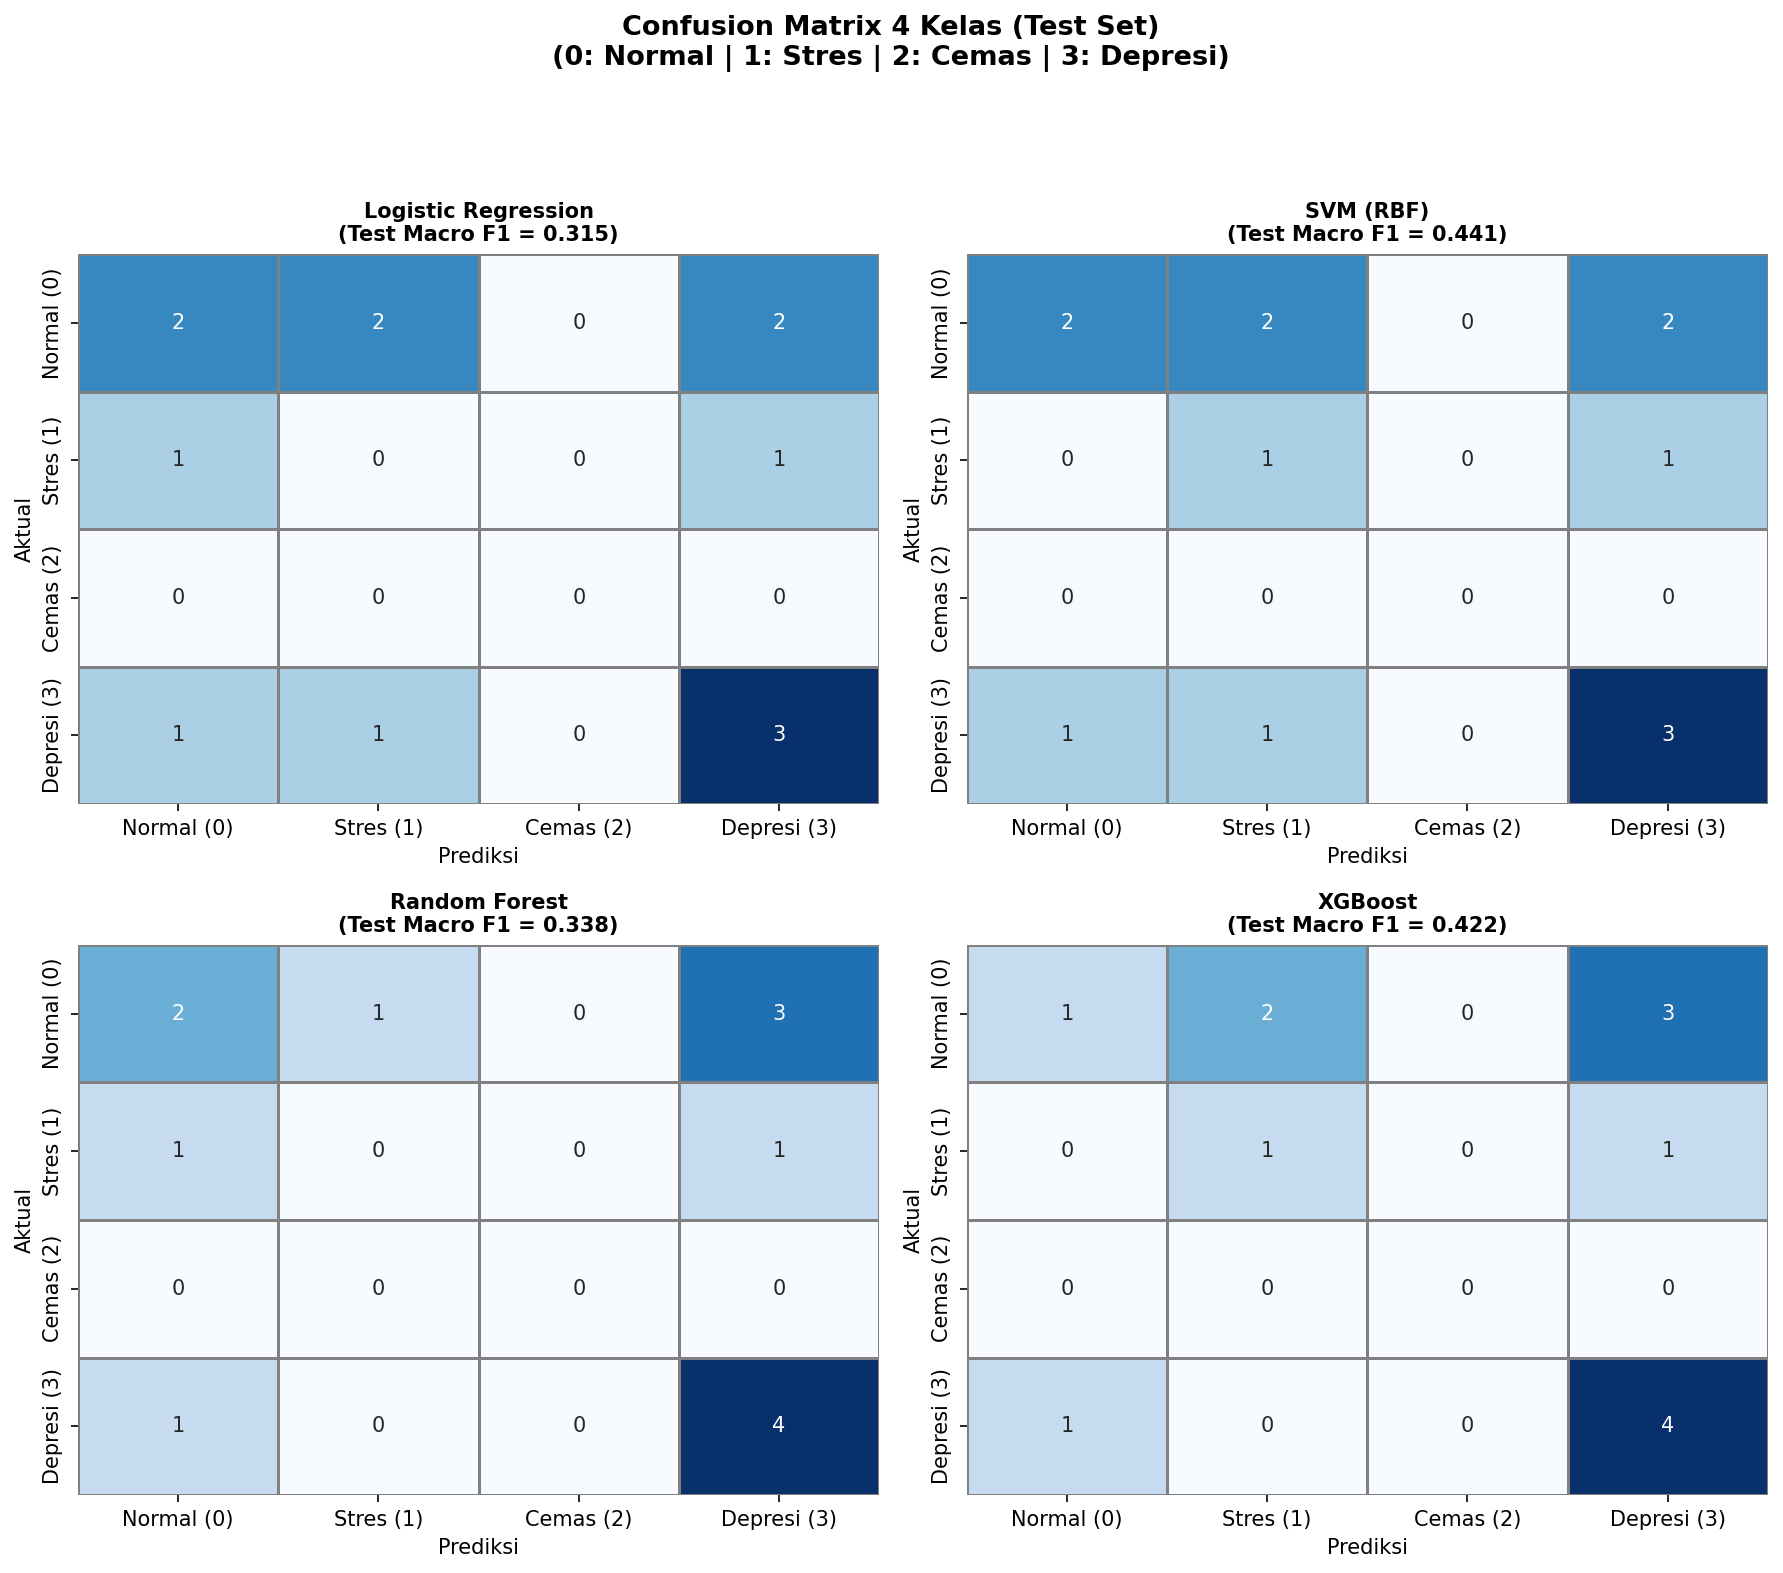
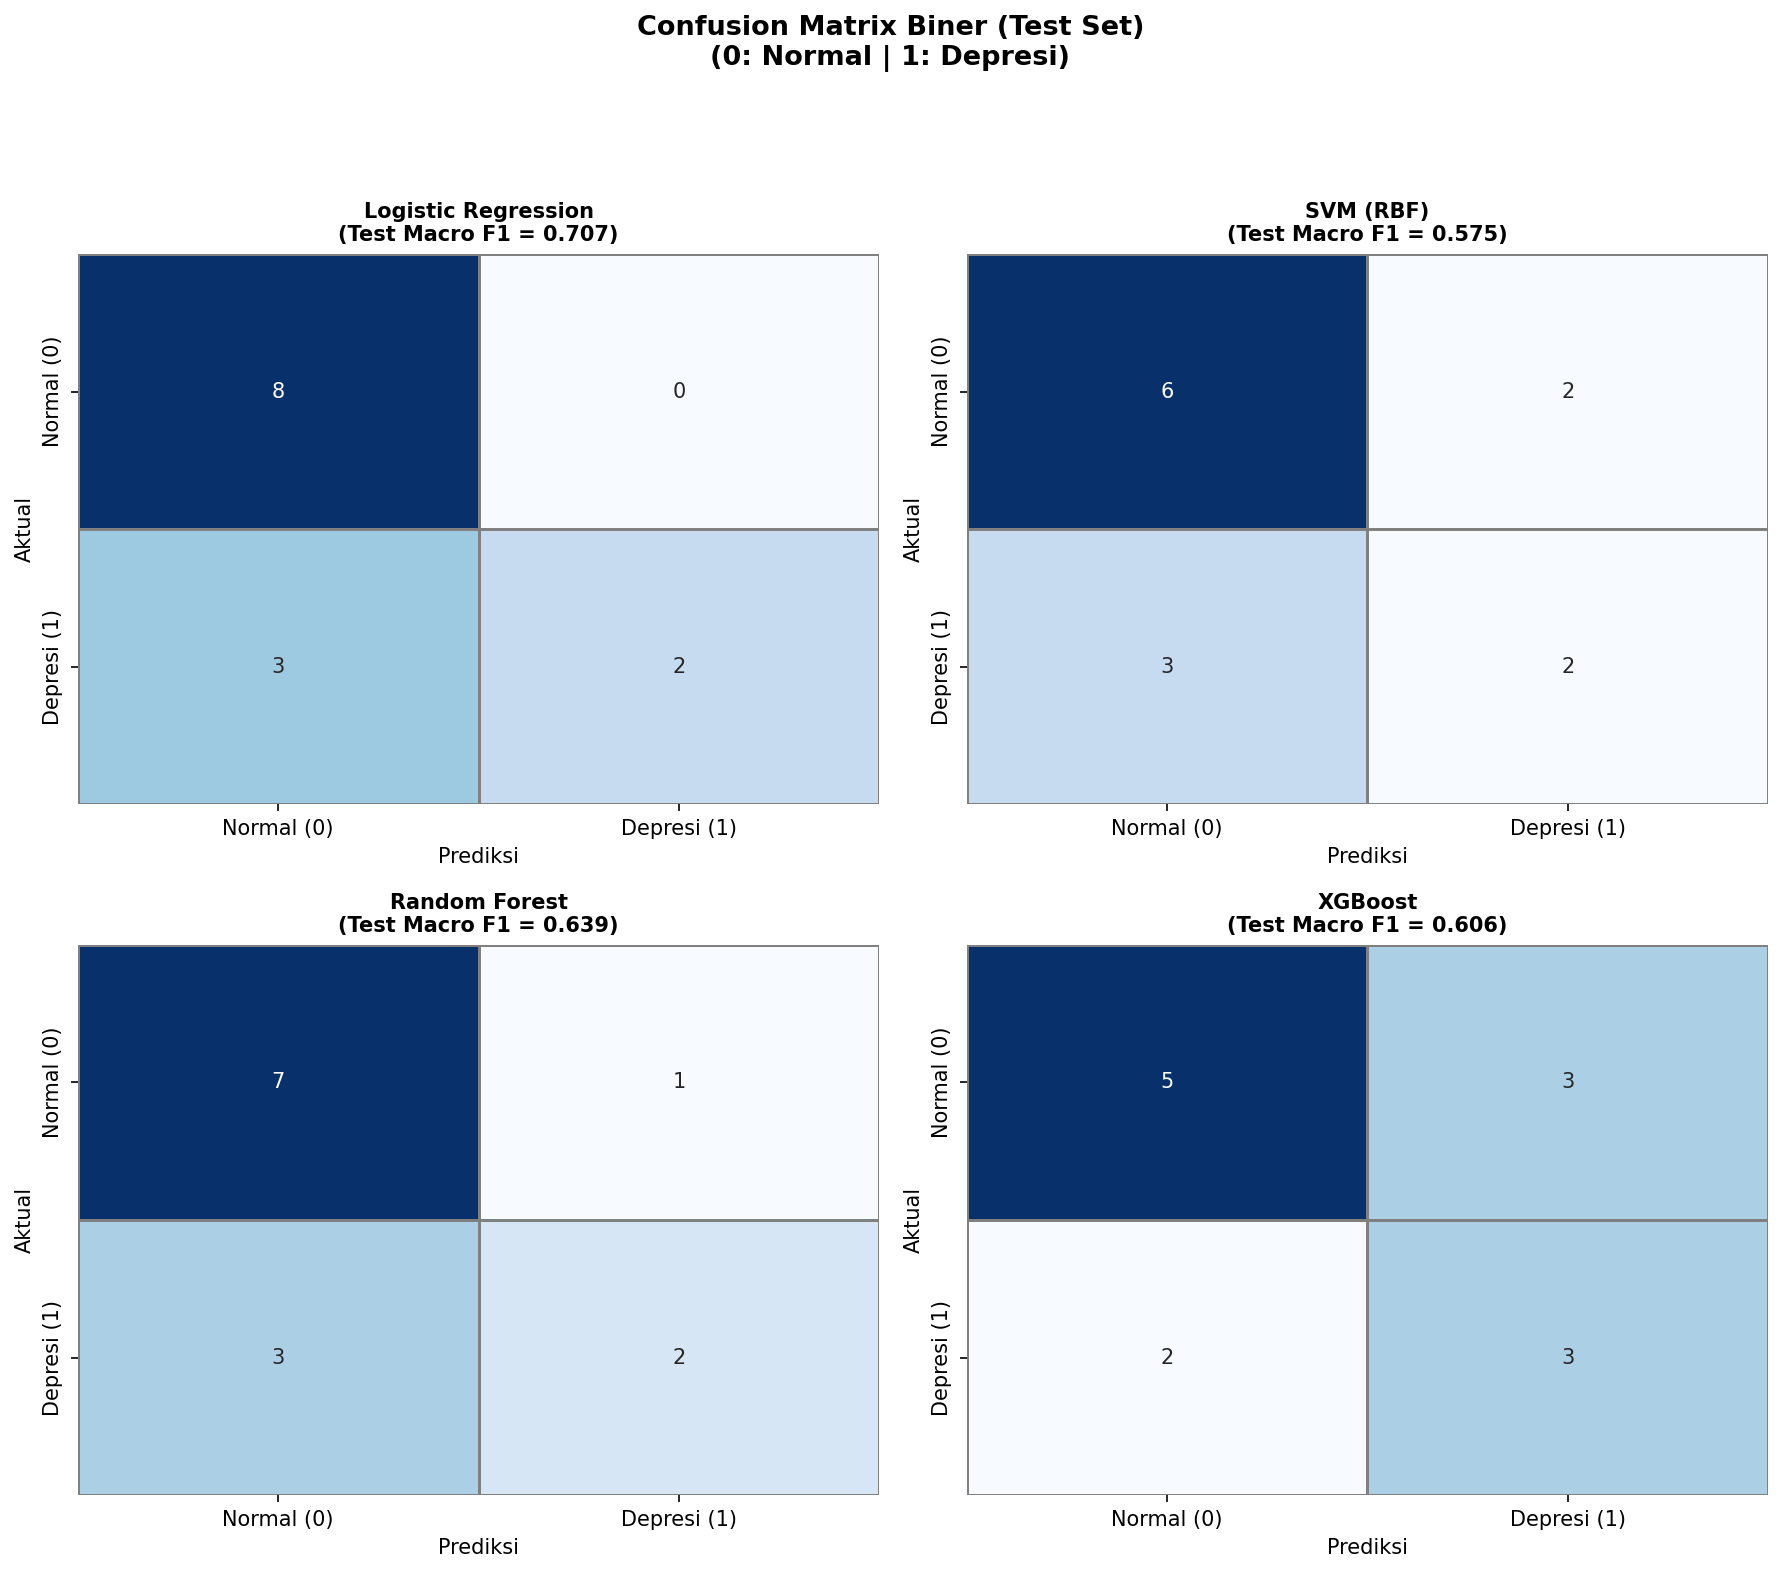
Use binary PHQ-8 labels; retrain models
Switch project labeling from a 4-class PHQ-8 hierarchy to a binary scheme (Normal vs Depresi). Changes include: updated docs (docs/strategiv1.md) to describe binary strategy; preprocessing (preprocessing/extract_mfcc.py) now maps to label_depresi and uses PHQ_Binary/PHQ8_Binary or score threshold; notebooks (.py and .ipynb) updated to use label_depresi, binary class labels, binary XGBoost objective, and set matplotlib backend for headless plotting. Model artifacts (logistic_regression, random_forest, svm, xgboost, scaler pkl files) were replaced after retraining and models/metrics were updated (models/ml/best_model_info.json and results CSV/plots/confusion matrices reflect new best model and performance). Removed leftover test.txt files. Overall effect: project now trains and evaluates a binary depression classifier and stores the retrained model artifacts and updated results.

diff --git a/preprocessing/extract_mfcc.py b/preprocessing/extract_mfcc.py
@@ -151,62 +151,23 @@ def extract_all_audio_features(y, sr):
 
 def map_label_strategi_v1(row):
     """
-    Applies hierarchical rule-based labeling from docs/strategiv1.md and maps to 4 classes:
-    Class 0: NORMAL
-    Class 1: STRES
-    Class 2: CEMAS
-    Class 3: DEPRESI
+    Applies binary labeling (2 classes) based on PHQ-8 score:
+    Class 0: NORMAL / Non-Depressed (PHQ score <= 9)
+    Class 1: DEPRESI (PHQ score >= 10)
     """
-    # Extract scores
+    # Extract binary label if explicitly available in metadata
+    phq_binary = row.get('PHQ8_Binary', row.get('PHQ_Binary', np.nan))
+    if not pd.isna(phq_binary):
+        return int(phq_binary)
+        
+    # Fallback to score-based threshold
     phq_score = row.get('PHQ8_Score', row.get('PHQ_Score', np.nan))
     if pd.isna(phq_score):
         phq_score = 0
     else:
         phq_score = int(phq_score)
         
-    # Check if individual questionnaire item columns are present (Train & Dev splits)
-    # The test split only has PHQ_Score
-    has_items = 'PHQ8_Depressed' in row and not pd.isna(row['PHQ8_Depressed'])
-    
-    if has_items:
-        def get_val(key):
-            val = row.get(key, 0)
-            return 0 if pd.isna(val) else int(val)
-            
-        dep = get_val('PHQ8_Depressed')
-        noi = get_val('PHQ8_NoInterest')
-        fail = get_val('PHQ8_Failure')
-        mov = get_val('PHQ8_Moving')
-        conc = get_val('PHQ8_Concentrating')
-        sleep = get_val('PHQ8_Sleep')
-        tired = get_val('PHQ8_Tired')
-        
-        # 1. Prioritas Pertama: DEPRESI
-        if phq_score >= 10 or (dep >= 2 and noi >= 2 and fail >= 2):
-            return 3  # DEPRESI
-            
-        # 2. Prioritas Kedua: CEMAS
-        if phq_score >= 5 and (mov >= 1 or conc >= 2):
-            return 2  # CEMAS
-            
-        # 3. Prioritas Ketiga: STRES
-        if phq_score >= 5 and (sleep >= 2 or tired >= 2):
-            return 1  # STRES
-            
-        # 4. Prioritas Keempat: NORMAL
-        if phq_score <= 4 and dep <= 1 and noi <= 1:
-            return 0  # NORMAL
-            
-        # 5. Fallback
-        return 1  # STRES
-    else:
-        # Fallback logic for test set using only the score thresholds
-        if phq_score >= 10:
-            return 3
-        elif phq_score <= 4:
-            return 0
-        else:
-            return 1  # Fallback to STRES for score 5-9 when items are missing
+    return 1 if phq_score >= 10 else 0
 
 def build_dataset_and_extract_features(cleaned_dir, output_dir):
     """
@@ -235,9 +196,9 @@ def build_dataset_and_extract_features(cleaned_dir, output_dir):
     
     # Label splits using map_label_strategi_v1
     logger.info("Melabeli data train, dev, dan test sesuai docs/strategiv1.md...")
-    df_train['label_3kelas'] = df_train.apply(map_label_strategi_v1, axis=1)
-    df_dev['label_3kelas'] = df_dev.apply(map_label_strategi_v1, axis=1)
-    df_test['label_3kelas'] = df_test.apply(map_label_strategi_v1, axis=1)
+    df_train['label_depresi'] = df_train.apply(map_label_strategi_v1, axis=1)
+    df_dev['label_depresi'] = df_dev.apply(map_label_strategi_v1, axis=1)
+    df_test['label_depresi'] = df_test.apply(map_label_strategi_v1, axis=1)
     
     # Add split column
     df_train['split'] = 'train'
@@ -251,7 +212,7 @@ def build_dataset_and_extract_features(cleaned_dir, output_dir):
         df_test.rename(columns={'participant_ID': 'Participant_ID'}, inplace=True)
         
     # Combine metadata
-    meta_cols_to_keep = ['Participant_ID', 'PHQ8_Score', 'PHQ_Score', 'label_3kelas', 'split', 'Gender']
+    meta_cols_to_keep = ['Participant_ID', 'PHQ8_Score', 'PHQ_Score', 'label_depresi', 'split', 'Gender']
     all_metadata = []
     
     for df_part in [df_train, df_dev, df_test]:
@@ -301,7 +262,7 @@ def build_dataset_and_extract_features(cleaned_dir, output_dir):
             features = extract_all_audio_features(y, sr)
             features['participant_id'] = participant_id
             features['phq8_score'] = int(meta_row.iloc[0]['PHQ8_Score'])
-            features['label_3kelas'] = int(meta_row.iloc[0]['label_3kelas'])
+            features['label_depresi'] = int(meta_row.iloc[0]['label_depresi'])
             features['split'] = meta_row.iloc[0]['split']
             features['gender'] = int(meta_row.iloc[0]['Gender'])
             
@@ -316,7 +277,7 @@ def build_dataset_and_extract_features(cleaned_dir, output_dir):
     logger.info(f"Berhasil mengekstrak total {len(df_features)} baris fitur.")
     
     # Save Raw Feature Matrix
-    META_COLS = ['participant_id', 'phq8_score', 'label_3kelas', 'split', 'gender']
+    META_COLS = ['participant_id', 'phq8_score', 'label_depresi', 'split', 'gender']
     FEAT_COLS = [col for col in df_features.columns if col not in META_COLS]
     
     # Rearrange columns
@@ -362,7 +323,7 @@ def build_dataset_and_extract_features(cleaned_dir, output_dir):
     df_train_feats = df_features[train_mask]
     
     X_train = df_train_feats[FEAT_COLS_FILTERED].values
-    y_train = df_train_feats['label_3kelas'].values
+    y_train = df_train_feats['label_depresi'].values
     
     f_scores, p_values = f_classif(X_train, y_train)
     mi_scores = mutual_info_classif(X_train, y_train, random_state=42)
@@ -402,7 +363,7 @@ def build_dataset_and_extract_features(cleaned_dir, output_dir):
     # Print distribution
     logger.info("Distribusi Kelas:")
     for split_name in ['train', 'dev', 'test']:
-        counts = df_final[df_final['split'] == split_name]['label_3kelas'].value_counts().sort_index()
+        counts = df_final[df_final['split'] == split_name]['label_depresi'].value_counts().sort_index()
         logger.info(f"  {split_name.upper()}: {dict(counts)}")
 
 if __name__ == "__main__":

diff --git a/notebooks/traditional_mlv2.py b/notebooks/traditional_mlv2.py
@@ -3,11 +3,9 @@
 # **Pipeline**: Klasifikasi Kesehatan Mental Berbasis Audio (DAIC-WOZ)
 # **Peran**: ML & Data Engineer — Athila Ramdani Saputra
 #
-# **Strategi Labeling 4 Kelas (PHQ-8 Severity Proxy)**:
-# - Kelas 0: Normal
-# - Kelas 1: Stres
-# - Kelas 2: Cemas
-# - Kelas 3: Depresi
+# **Strategi Labeling Biner (2 Kelas)**:
+# - Kelas 0: Normal / Non-Depresi
+# - Kelas 1: Depresi
 #
 # Notebook ini melatih 4 model Machine Learning:
 # 1. Logistic Regression
@@ -23,6 +21,8 @@ import pickle
 import json
 import numpy as np
 import pandas as pd
+import matplotlib
+matplotlib.use('Agg')
 import matplotlib.pyplot as plt
 import seaborn as sns
 from sklearn.linear_model import LogisticRegression
@@ -79,7 +79,7 @@ with open(FEATURE_LIST_PATH, 'r') as f:
 # Verify features are in dataframe
 FEAT_COLS = [f for f in FEAT_COLS if f in df.columns]
 
-META_COLS = ['participant_id', 'phq8_score', 'label_3kelas', 'split', 'gender']
+META_COLS = ['participant_id', 'phq8_score', 'label_depresi', 'split', 'gender']
 
 print(f"Shape dataset final: {df.shape}")
 print(f"Jumlah fitur final: {len(FEAT_COLS)}")
@@ -97,14 +97,14 @@ print(f"  Test : {len(df_test)}")
 # %%
 # Extract features and labels
 X_train = df_train[FEAT_COLS].values
-y_train = df_train['label_3kelas'].values
+y_train = df_train['label_depresi'].values
 groups_train = df_train['participant_id'].values
 
 X_dev = df_dev[FEAT_COLS].values
-y_dev = df_dev['label_3kelas'].values
+y_dev = df_dev['label_depresi'].values
 
 X_test = df_test[FEAT_COLS].values
-y_test = df_test['label_3kelas'].values
+y_test = df_test['label_depresi'].values
 
 # Fit scaler ONLY on train data to prevent statistical data leakage
 scaler = StandardScaler()
@@ -156,7 +156,7 @@ MODELS = {
         }
     },
     'XGBoost': {
-        'model': xgb.XGBClassifier(random_state=RANDOM_SEED, eval_metric='mlogloss', num_class=4, objective='multi:softmax', n_jobs=-1),
+        'model': xgb.XGBClassifier(random_state=RANDOM_SEED, eval_metric='logloss', objective='binary:logistic', n_jobs=-1),
         'param_grid': {
             'n_estimators': [50, 100],
             'max_depth': [3, 5],
@@ -294,14 +294,14 @@ print(f"Plot perbandingan model disimpan di: {plot_compare_path}")
 # %%
 # Visualisasi Confusion Matrix untuk semua model
 fig, axes = plt.subplots(2, 2, figsize=(12, 11))
-fig.suptitle('Confusion Matrix 4 Kelas (Test Set)\n(0: Normal | 1: Stres | 2: Cemas | 3: Depresi)', fontsize=13, fontweight='bold')
+fig.suptitle('Confusion Matrix Biner (Test Set)\n(0: Normal | 1: Depresi)', fontsize=13, fontweight='bold')
 
-class_labels = ['Normal (0)', 'Stres (1)', 'Cemas (2)', 'Depresi (3)']
+class_labels = ['Normal (0)', 'Depresi (1)']
 
 for idx, (model_name, model) in enumerate(best_models.items()):
     ax = axes[idx // 2, idx % 2]
     y_pred = model.predict(X_test_scaled)
-    cm = confusion_matrix(y_test, y_pred, labels=[0, 1, 2, 3])
+    cm = confusion_matrix(y_test, y_pred, labels=[0, 1])
     
     sns.heatmap(cm, annot=True, fmt='d', cmap='Blues', ax=ax,
                 xticklabels=class_labels, yticklabels=class_labels,
@@ -335,7 +335,7 @@ print("="*65)
 
 print("\nClassification Report Model Terbaik (Test Set):")
 y_pred_best = best_model_obj.predict(X_test_scaled)
-print(classification_report(y_test, y_pred_best, labels=[0, 1, 2, 3], target_names=class_labels, zero_division=0))
+print(classification_report(y_test, y_pred_best, labels=[0, 1], target_names=class_labels, zero_division=0))
 
 # Save models
 for name, model in best_models.items():

diff --git a/docs/strategiv1.md b/docs/strategiv1.md
@@ -1,34 +1,29 @@
-# Strategi Klasifikasi 3 Kelas Berbasis PHQ-8
+# Strategi Klasifikasi Biner (2 Kelas) Berbasis PHQ-8
 
-full pake dataset DAIC-WOZ aja
+Untuk meningkatkan keandalan model (*accuracy* dan *F1-score*) serta mengatasi ketidakseimbangan kelas (*class imbalance*) akibat sedikitnya jumlah data, proyek ini menggunakan formulasi **Klasifikasi Biner (2 Kelas)**. 
 
-### Perbaikan Aturan Logika Hierarkis (Rule-Based) yang Memanfaatkan Kolom Individual
+### Logika Pelabelan Biner (Normal vs Depresi)
+Pembagian kelas didasarkan pada ambang batas klinis skor PHQ-8 (Patient Health Questionnaire-8) yang standar:
 
-Agar pelabelan akurat secara data sains dan mencegah *overlap* (tumpang tindih label) serta mencegah adanya data *null* (tanpa label), aturan ini menggunakan pendekatan **Hierarki / Prioritas (If-Elif-Else)**. Setiap baris data akan dievaluasi secara berurutan dan hanya akan mendapat **satu label yang paling dominan**.
+1. **Kelas 0: NORMAL (Non-Depresi)**
+   - Kriteria: Skor total PHQ-8/PHQ $\le$ 9.
+   - Karakteristik: Mengindikasikan kondisi sehat secara mental atau hanya mengalami distres/stres ringan sehari-hari yang belum masuk kategori klinis depresi.
+   - Nilai Ground Truth Biner: `PHQ8_Binary` = 0 atau `PHQ_Binary` = 0.
+   - Target Kolom di Kode: `label_depresi` = 0.
 
-Berikut adalah hierarki logika klasifikasi:
+2. **Kelas 1: DEPRESI (Depresi Klinis)**
+   - Kriteria: Skor total PHQ-8/PHQ $\ge$ 10.
+   - Karakteristik: Ambang batas klinis untuk depresi tingkat sedang hingga berat (*moderate-to-severe depression*).
+   - Nilai Ground Truth Biner: `PHQ8_Binary` = 1 atau `PHQ_Binary` = 1.
+   - Target Kolom di Kode: `label_depresi` = 1.
 
-**1. Prioritas Pertama: DEPRESI (Kondisi Klinis Terberat)**
-- `PHQ8_Score` $\ge$ 10 (standar klinis depresi *moderate-severe*) OR
-- Nilai `PHQ8_Depressed` $\ge$ 2 AND `PHQ8_NoInterest` $\ge$ 2 AND `PHQ8_Failure` $\ge$ 2.
-- *Logika: Kondisi paling parah dievaluasi pertama. Jika lolos evaluasi ini, data otomatis dilabeli DEPRESI dan evaluasi berhenti.*
+---
 
-**2. Prioritas Kedua: CEMAS (Gejala Agitasi dan Gangguan Fokus)**
-- `PHQ8_Score` $\ge$ 5 AND
-- Nilai `PHQ8_Moving` $\ge$ 1 (mengalami agitasi/gelisah) ATAU `PHQ8_Concentrating` $\ge$ 2.
-- *Logika: Data yang masuk ke tahap ini skornya sudah pasti di bawah 10 (bukan depresi mayor). Jika ada tanda agitasi pikiran/fisik, diklasifikasikan sebagai CEMAS.*  
-
-**3. Prioritas Ketiga: STRES (Gejala Keluhan Fisik dan Kelelahan)**
-- `PHQ8_Score` $\ge$ 5 AND
-- Nilai `PHQ8_Sleep` $\ge$ 2 ATAU `PHQ8_Tired` $\ge$ 2.
-- *Logika: Tidak ada gejala kecemasan, tapi tubuh mengalami kelelahan dan gangguan tidur. Ini merupakan indikasi dominan STRES fisik.*
-
-**4. Prioritas Keempat: NORMAL**
-- `PHQ8_Score` $\le$ 4 AND
-- Kolom inti depresi (`PHQ8_Depressed`, `PHQ8_NoInterest`) harus bernilai maksimal 1.
-- *Logika: Skor sangat rendah dan gejala afektif minim, menandakan kondisi psikologis yang stabil/sehat.*
-
-**5. Kondisi Fallback / Catch-All (Menangani Data Sisa)**
-- *Kriteria*: Jika sebuah baris data gagal memenuhi keempat kriteria di atas (misal: skor 5-9 tapi gejalanya tersebar tipis, misal tidur=1, lelah=1, murung=1, dll).
-- *Tindakan*: Secara otomatis dikelompokkan ke dalam kategori **STRES** (sebagai penanda adanya beban psikologis ringan).
-- *Logika: Memastikan 100% data terisi (tidak ada nilai NULL) sehingga dataset aman dan valid saat di-training oleh algoritma Machine Learning.*
+### Keunggulan Strategi Biner:
+1. **Keabsahan Data Test (Tanpa Asumsi / Fallback)**:
+   - Dataset pengujian resmi (`full_test_split.csv`) hanya memuat kolom `PHQ_Score` dan `PHQ_Binary`. 
+   - Dengan pendekatan biner, kita dapat langsung mencocokkan target model dengan ground truth resmi dari dataset tanpa memerlukan data kuisioner individual yang absen pada data uji.
+2. **Keseimbangan Kelas yang Sehat**:
+   - Menyatukan kelas Normal, Stres, dan Cemas menjadi satu kelas tunggal (Non-Depresi) untuk memperbanyak sampel latihan (Train set: 20 Non-Depresi vs 12 Depresi).
+3. **Standar Penelitian Klinis**:
+   - Sejalan dengan mayoritas publikasi ilmiah internasional untuk tugas skrining awal (*early screening*) kesehatan mental berbasis audio.